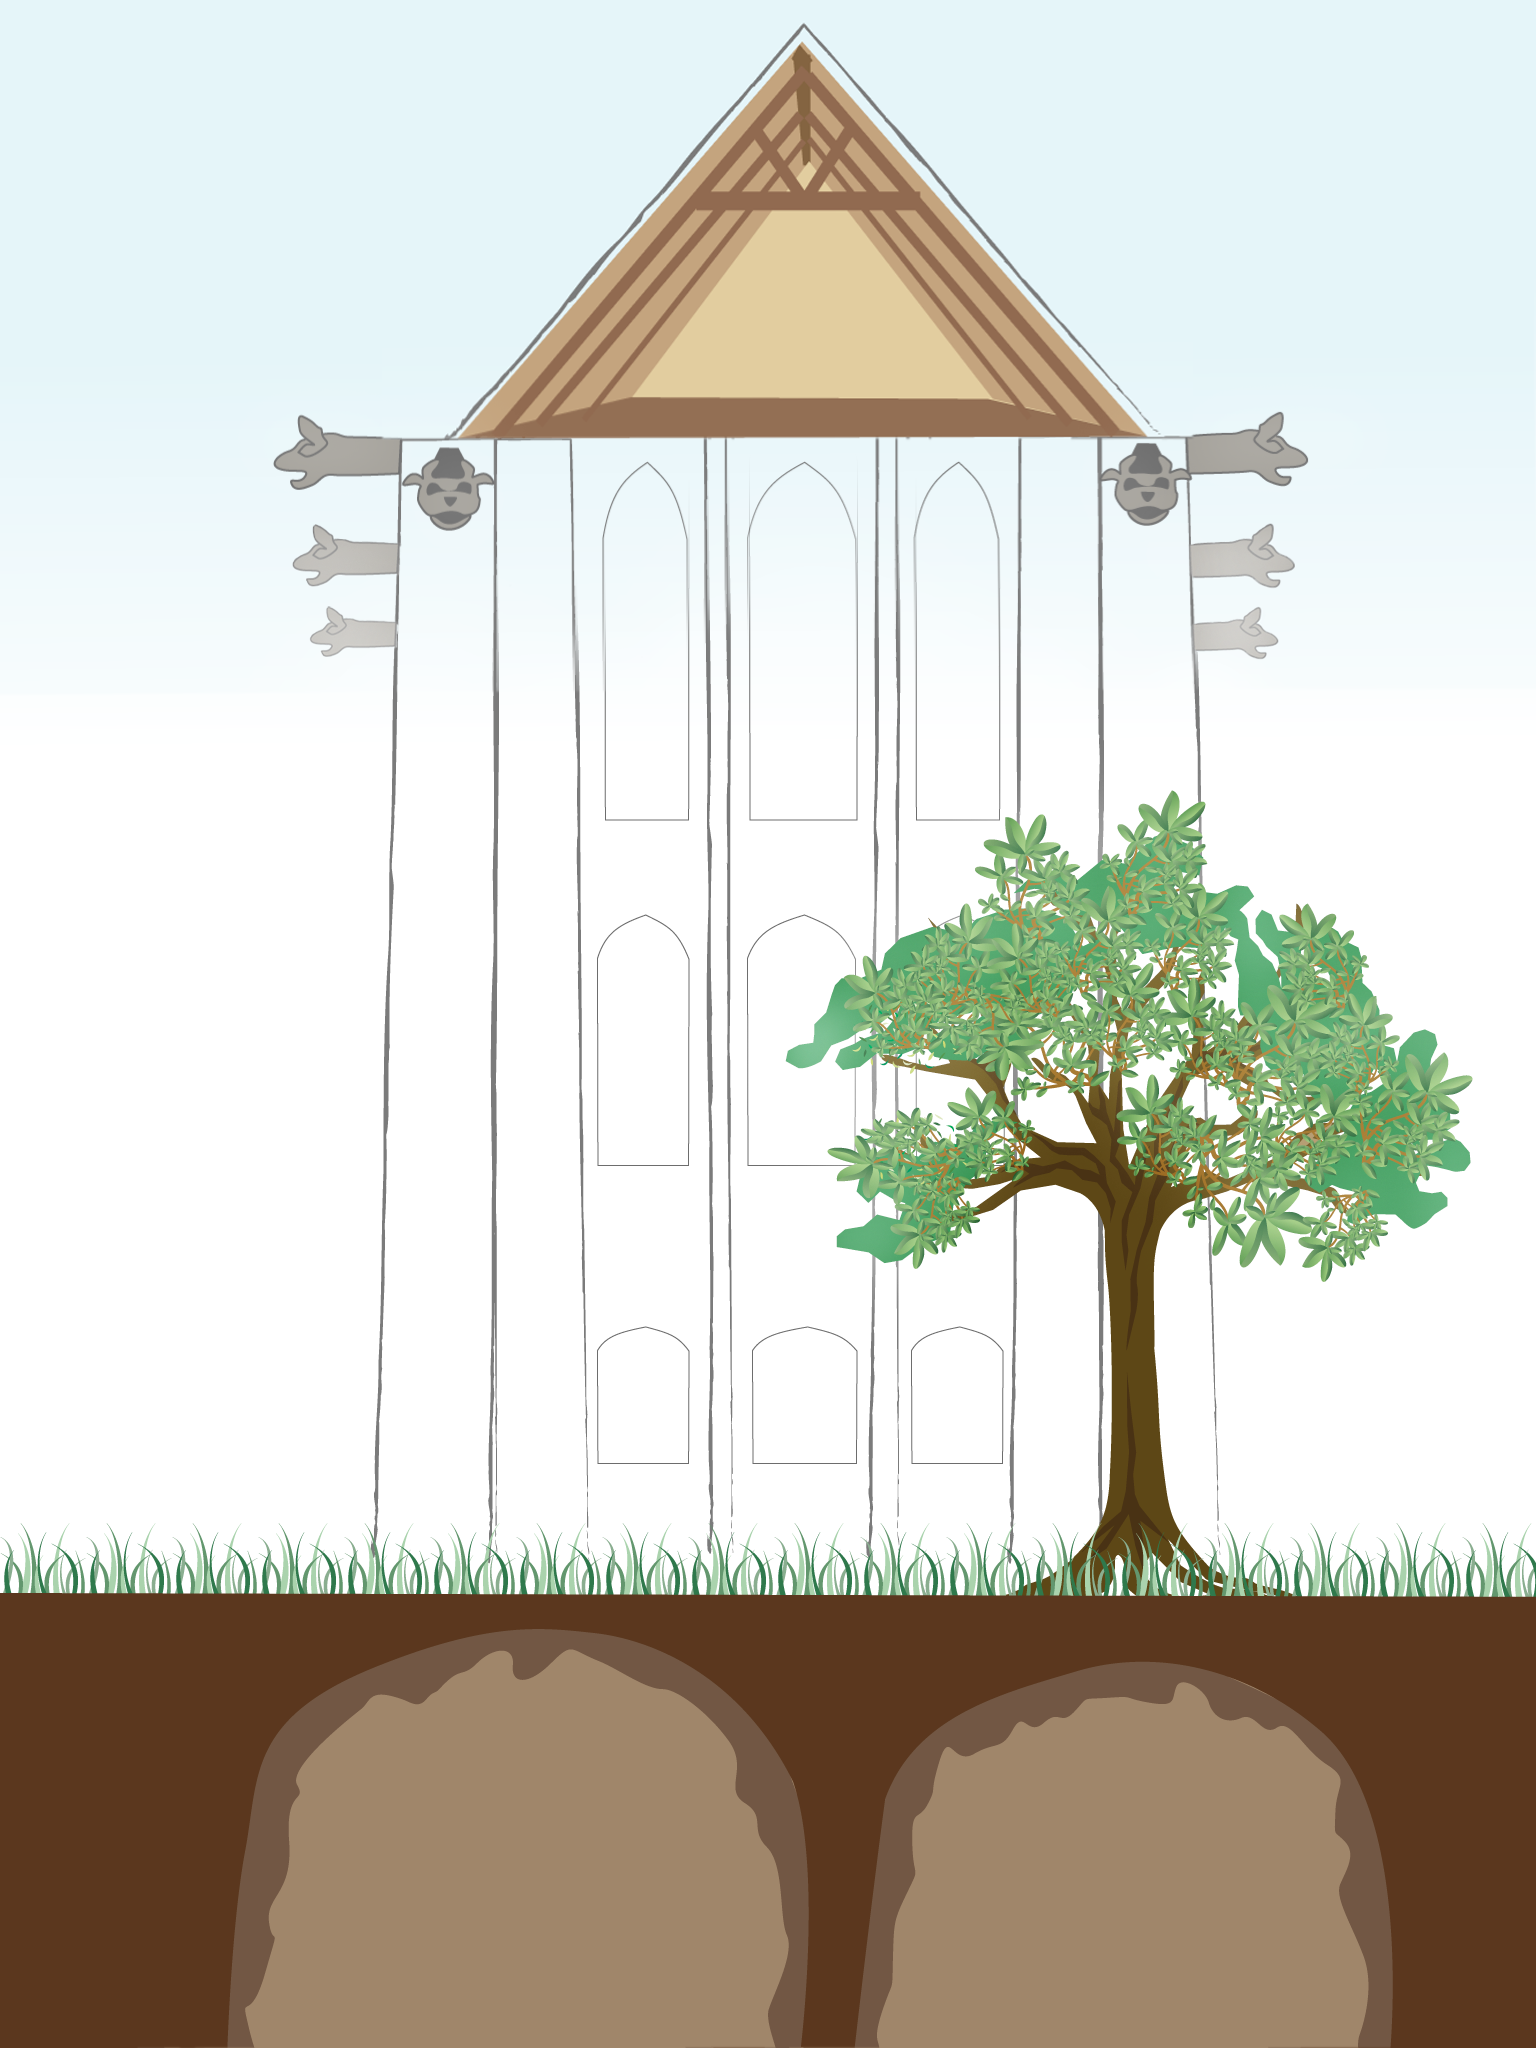
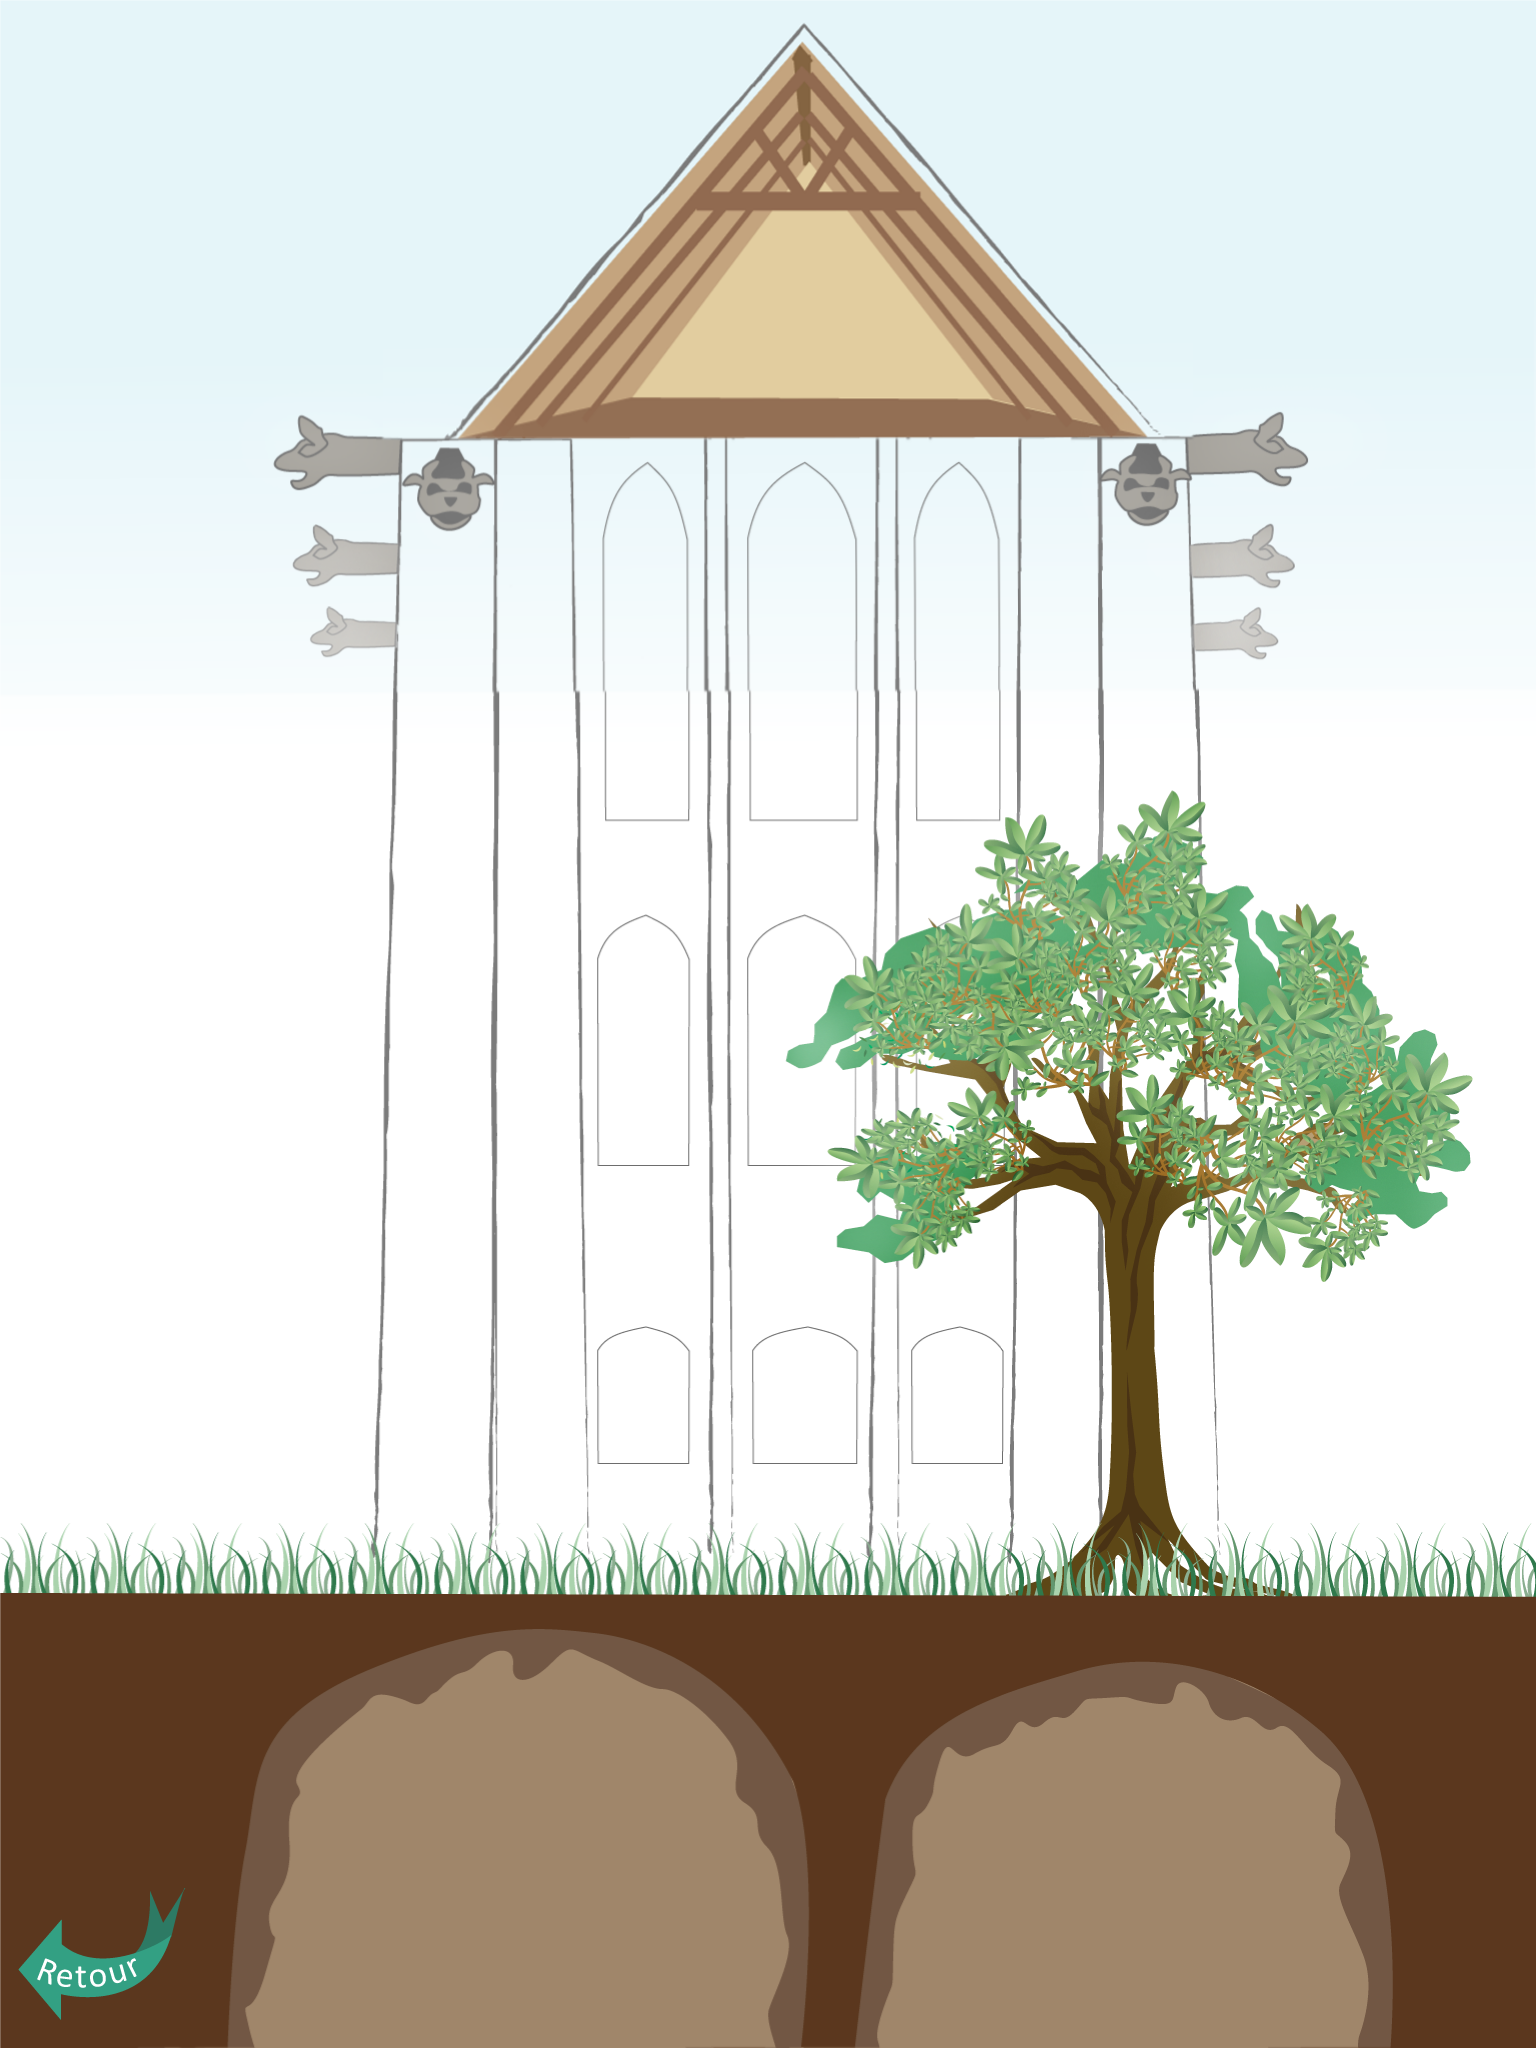
modifs
finalisation jeu1

diff --git a/appli2/js/jeu1.js b/appli2/js/jeu1.js
@@ -17,42 +17,42 @@ $(document).ready(function(e) {
   //drop chouette
   $('#drop1').droppable( {
 	accept: '#drag1',
-	hoverClass: 'hovered',
+	hoverClass: 'hovered2',
 	drop: dropZone
 	
   });
   //drop souris
   $('#drop2').droppable( {
 	accept: '#drag6',
-	hoverClass: 'hovered',
+	hoverClass: 'hovered2',
 	drop: dropZone2
 	
   });
   //drop mesange
   $('#drop3').droppable( {
 	accept: '#drag4',
-	hoverClass: 'hovered',
+	hoverClass: 'hovered2',
 	drop: dropZone3
 	
   });
   //drop araignée
   $('#drop4').droppable( {
 	accept: '#drag3',
-	hoverClass: 'hovered',
+	hoverClass: 'hovered2',
 	drop: dropZone4
 	
   });
   //drop fourmi
   $('#drop5').droppable( {
 	accept: '#drag5',
-	hoverClass: 'hovered',
+	hoverClass: 'hovered2',
 	drop: dropZone5
 	
   });
   //drop papillon
   $('#drop6').droppable( {
 	accept: '#drag2',
-	hoverClass: 'hovered',
+	hoverClass: 'hovered2',
 	drop: dropZone6
 	
   }); 

diff --git a/appli2/css/Style.css b/appli2/css/Style.css
@@ -21,7 +21,7 @@ a {
 #page_jeu1 {
 	width:1536px;
 	height:2048px;
-	background-image: url(../img/jeu1/chaine-alimentaire2.jpg);	
+	background-image: url(../img/jeu1/chaine-alimentaire2.png);	
 }
 
 /* NAV */
@@ -32,6 +32,13 @@ a {
   left: 0px;
   width: 250px;
   height: 250px;
+}
+#retour2 {
+  position: absolute;
+  bottom: 0px;
+  left: 0px;
+  width: 200px;
+  height: 210px;
 }
 
 /* Présentation */

diff --git a/appli2/jeu2.html b/appli2/jeu2.html
@@ -36,5 +36,6 @@
     <section class="cave2"></section>
   </section>
 </section>
+<a id="retour2" href="index.html"></a>
 </body>
 </html>
